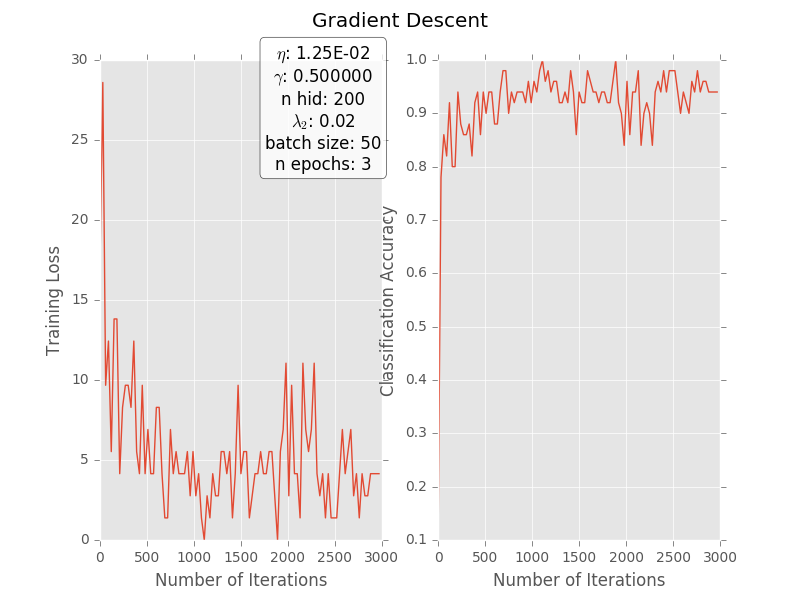
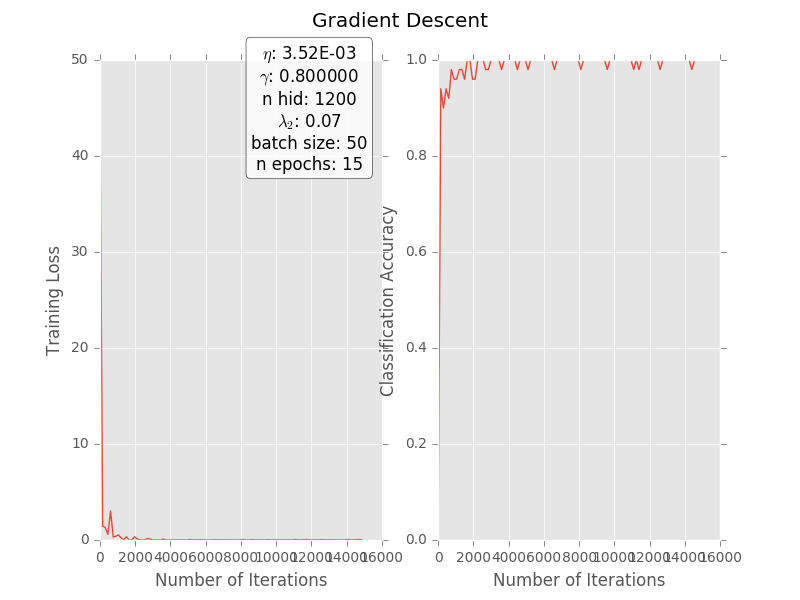
Changed hyperparameters s.t. current setting evaluated as 98.2 percent accurate on the Kaggle test data.

diff --git a/neuralNetwork.py b/neuralNetwork.py
@@ -30,8 +30,8 @@ class NeuralNetwork(object):
         # Weight initialization.
         self.V = util.weight_init((self.n_hid, self.n_in + 1),  how="uniform")
         self.W = util.weight_init((self.n_out, self.n_hid + 1), how="uniform")
-        #self.prevV = np.zeros(self.V.shape)
-        #self.prevW = np.zeros(self.W.shape)
+        self.prev_dV = np.zeros(self.V.shape)
+        self.prev_dW = np.zeros(self.W.shape)
 
     def set_data(self, X_train, labels_train):
         """ Store data in instance attribute self.data,
@@ -114,14 +114,18 @@ class NeuralNetwork(object):
 
         #pdb.set_trace()
         norm = self.eta / self.n_data_active
-        self.W[:, 1:] = (1 + self.alpha) * self.W[:, 1:] - norm * (delta_o.T @ H + self.l2 * self.W[:, 1:])
-        self.W[:, :1] = (1 + self.alpha) * self.W[:, :1] - norm * delta_o.sum(axis=0)[:, None]
+        dW = np.zeros(self.W.shape)
+        dW[:, 1:] = - norm * (delta_o.T @ H + self.l2 * self.W[:, 1:])
+        dW[:, :1] = - norm * delta_o.sum(axis=0)[:, None]
+        self.W += dW + self.alpha * self.prev_dW
 
-        self.V[:, 1:] = (1 + self.alpha) * self.V[:, 1:] - norm * (delta_h.T @ X + self.l2 * self.V[:, 1:])
-        self.V[:, :1] = (1 + self.alpha) * self.V[:, :1] - norm * delta_h.sum(axis=0)[:, None]
+        dV = np.zeros(self.V.shape)
+        dV[:, 1:] = - norm * (delta_h.T @ X + self.l2 * self.V[:, 1:])
+        dV[:, :1] = - norm * delta_h.sum(axis=0)[:, None]
+        self.V += dV + self.alpha * self.prev_dV
 
-        #self.prevV = self.V
-        #self.prevW = self.W
+        self.prev_dW = dW
+        self.prev_dV = dV
 
 
     # =================== Evaluation =================
@@ -156,7 +160,7 @@ class NeuralNetwork(object):
         f.write("\nHyperparameters:")
         f.write("\n\tLearning rate: {:.5E}".format(self.eta))
         f.write("\n\tdecay_const: {:.3F}".format(self.decay_const))
-        f.write("\n\tMomentum: {:.5E}".format(self.alpha))
+        f.write("\n\tMomentum: {:.2F}".format(self.alpha))
         f.write("\n\tl2 reg: {:.3F}".format(self.l2))
         f.write("\n\tBatch size:{}".format(self.n_data_active))
         f.write("\n\tNum Epochs:{}".format(self.n_epochs))

diff --git a/hw4.py b/hw4.py
@@ -59,14 +59,14 @@ def trainNeuralNetwork(reload=False, wantDeskew=True):
 
     # ___________ Initialize the neural network. ____________
     neural_net = NeuralNetwork( n_in=X_train.shape[1],
-                                n_hid=200,
+                                n_hid=1200,
                                 n_out=10,
                                 eta=0.1,
-                                decay_const=0.5,
-                                alpha=0.1,
-                                l2=0.02,
+                                decay_const=0.8,
+                                alpha=0.9,
+                                l2=0.07,
                                 batch_size=50,
-                                n_epochs=3)
+                                n_epochs=15)
 
     neural_net.set_data(X_train, labels_train)
 
@@ -106,7 +106,7 @@ def trainNeuralNetwork(reload=False, wantDeskew=True):
 
 
     # Save Kaggle predictions in CSV file.
-    if False:
+    if True:
         pred_labels_test = neural_net.predict_test(util.preprocess(X_test))
         Id          = np.reshape(np.arange(1, 1+X_test.shape[0]), (X_test.shape[0], 1))
         Category    = np.reshape(pred_labels_test, (X_test.shape[0], 1))

diff --git a/util.py b/util.py
@@ -51,6 +51,7 @@ def weight_init(shape, how):
 
 
 def moments(image):
+    # Credit: Dibya Ghosh
     c0,c1 = np.mgrid[:image.shape[0],:image.shape[1]] # A trick in numPy to create a mesh grid
     totalImage = np.sum(image) #sum of pixels
     m0 = np.sum(c0*image)/totalImage #mu_x
@@ -63,6 +64,7 @@ def moments(image):
     return mu_vector, covariance_matrix
 
 def deskew(image):
+    # Credit: Dibya Ghosh
     c,v = moments(image)
     alpha = v[0,1]/v[0,0]
     affine = np.array([[1,0],[alpha,1]])
@@ -71,6 +73,7 @@ def deskew(image):
     return interpolation.affine_transform(image,affine,offset=offset)
 
 def deskewAll(X):
+    # Credit: Dibya Ghosh
     currents = []
     for i in range(len(X)):
         currents.append(deskew(X[i].reshape(28,28)).flatten())
